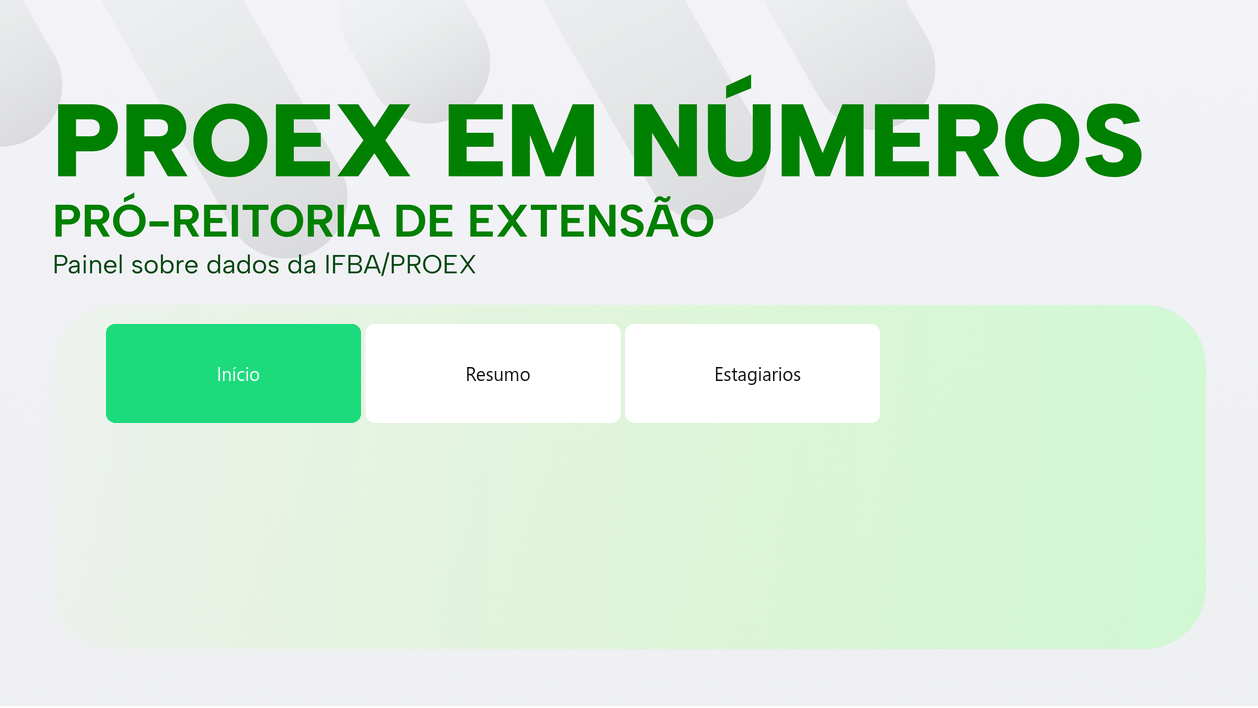
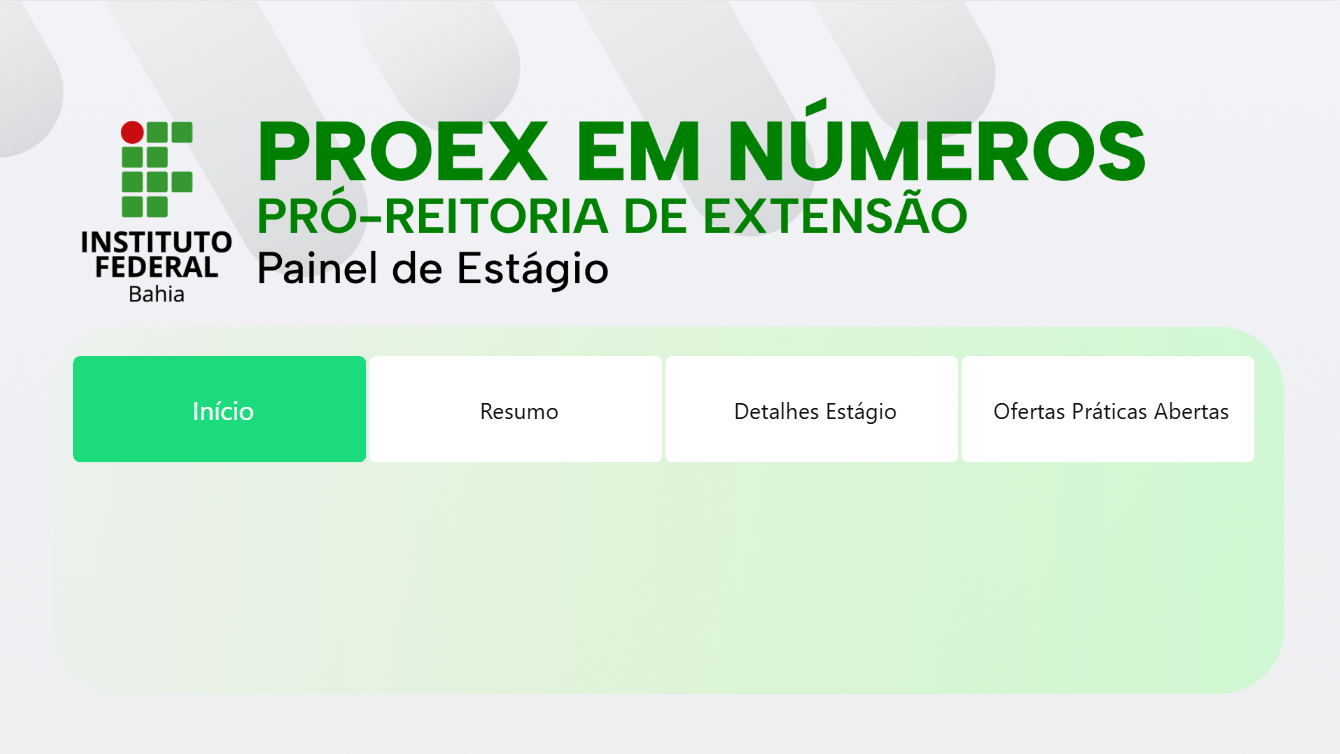
new files

diff --git a/src/content/projects/PaineldeEstágio.md b/src/content/projects/PaineldeEstágio.md
@@ -1,7 +1,7 @@
 ---
 title: "Painel de Estágios"
-image: "/Images/KPI_Estagio.png"
-objectives: "O objetivo deste indicador é centralizar, monitorar e analisar o fluxo de estágios no IFBA. Através de visualizações dinâmicas, o painel facilita a tomada de decisão baseada em dados (data-driven), garantindo maior transparência e controle sobre a inserção dos alunos no mercado de trabalho e o cumprimento das diretrizes acadêmicas."
-description: "A implementação deste dashboard representa um avanço significativo na gestão da informação. Ao automatizar a consolidação dos dados, a ferramenta reduz o tempo gasto em rotinas operacionais de extração e cruzamento de planilhas. Para a gestão, isso se traduz em maior agilidade para identificar gargalos, avaliar o alcance das políticas de extensão e promover ações focadas na melhoria contínua da experiência dos estudantes e na relação com o setor produtivo. Visão Demográfica e Geográfica: Distribuição de estagiários ativos por campus, polos e cursos. Acompanhamento de Vínculos: Status das contratações, renovações e encerramentos de termos de compromisso em tempo real."
+image: "/Images/KPI_ESTAGIO.png"
+objectives: "Otimizar a gestão de estágios através da automação , reduzindo rotinas manuais e garantindo o acompanhamento ágil e em tempo real dos vínculos."
+description: "O objetivo do painel é otimizar a gestão de estágios automatizando a consolidação de dados. A ferramenta substitui rotinas operacionais por um acompanhamento em tempo real , promovendo agilidade para identificar gargalos e avaliar o alcance das políticas de extensão."
 link: "https://app.powerbi.com/view?r=eyJrIjoiM2E5NjBiYzctNDk5NC00NDA1LWI0MTQtZTRjN2IzNGQ5OWNhIiwidCI6IjRjZDgzNWY0LTU0NDAtNDA4Zi05M2EzLTk3NWZjMTdjMzg0YSIsImMiOjR9"
 ---
